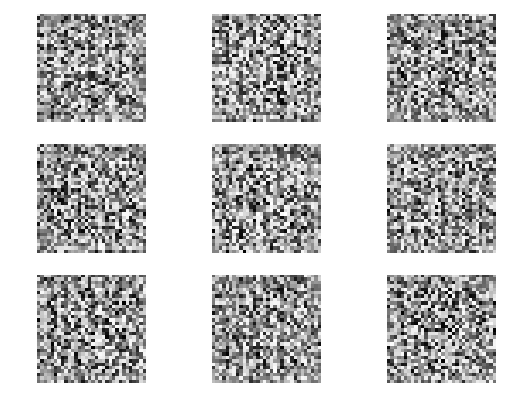
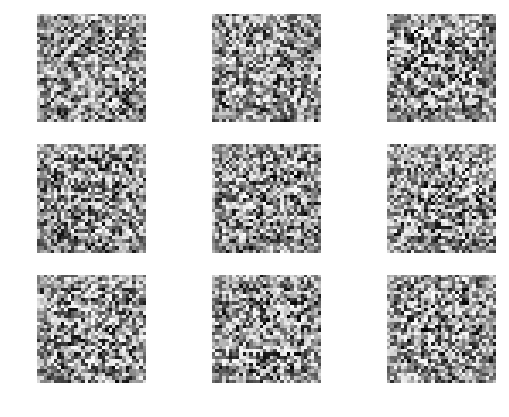
.

diff --git a/projects/devanagari/DCGAN.py b/projects/devanagari/DCGAN.py
@@ -24,8 +24,8 @@ keep_prob_placeholder = tf.placeholder(dtype=tf.float32, shape=())
 
 
 def sample_Z(m, n):
-    # return np.random.uniform((size=m,n))
-    return np.random.normal(size=(m, n))
+    return np.random.uniform(size=(m,n))
+    # return np.random.normal(size=(m, n))
 
 
 def generator(Z, keep_prob):
@@ -37,6 +37,7 @@ def generator(Z, keep_prob):
              weights_regularizer=slim.l2_regularizer(.05)):
 
              net = slim.fully_connected(Z, 7*7*128, activation_fn=None, scope='fc1')
+             net = slim.dropout(net, keep_prob=keep_prob)
              net = slim.batch_norm(net)
              net = tf.nn.leaky_relu(net)
 
@@ -51,42 +52,6 @@ def generator(Z, keep_prob):
              print(net.shape)
 
              net = tf.nn.tanh(net)
-
-            # print('generator shapes')
-            # net = slim.fully_connected(Z, 256, activation_fn=None, scope='fc1')
-            # net = slim.dropout(net, keep_prob = keep_prob, scope='dropout1')
-            # net = slim.batch_norm(net)
-            # net = tf.nn.leaky_relu(net)
-            #
-            # net = slim.fully_connected(Z, 2*2*256, activation_fn=None, scope='fc2')
-            # net = slim.dropout(net, keep_prob = keep_prob, scope='dropout2')
-            #
-            # net = tf.reshape(net, (-1, 2, 2, 256))
-            # net = slim.batch_norm(net)
-            # net = tf.nn.leaky_relu(net)
-            # # shape = 2 x 2 x 256
-            # print(net.shape)
-            #
-            # net = slim.conv2d_transpose(net, 64, [2,2], stride=2, scope='convT1')
-            # net = slim.batch_norm(net)
-            # net = tf.nn.leaky_relu(net)
-            # # shape = 7 x 7 x 64
-            # print(net.shape)
-            #
-            # net = slim.conv2d_transpose(net, 16, [2,2], stride=2, scope='convT2')
-            # net = slim.batch_norm(net)
-            # net = tf.nn.leaky_relu(net)
-            # # shape = 15 x 15 x 16
-            # print(net.shape)
-            #
-            # net = slim.conv2d_transpose(net, 1, [2,2], stride=4, scope='convT3')
-            # net = slim.batch_norm(net)
-            # net = tf.nn.leaky_relu(net)
-            # # shape = 32 x 32 x 1
-            # print(net.shape)
-
-            # net = tf.nn.tanh(net)
-            # tf.summary.image('output of gen', net, 10)
 
     return net
 
@@ -112,14 +77,14 @@ def discriminator(X):
 
                 net = slim.conv2d(net, 64, [5,5], scope='conv1')
                 print(net.shape)
-                # net = slim.batch_norm(net)
+                net = slim.batch_norm(net)
                 net = tf.nn.leaky_relu(net)
                 net = slim.avg_pool2d(net, [2,2], stride=1, scope='pool1')
                 print(net.shape)
 
                 net = slim.conv2d(net, 128, [5,5], scope='conv2')
                 print(net.shape)
-                # net = slim.batch_norm(net)
+                net = slim.batch_norm(net)
                 net = tf.nn.leaky_relu(net)
                 net = slim.avg_pool2d(net, [2,2], stride=1, scope='pool2')
                 print(net.shape)
@@ -154,7 +119,7 @@ def train(continue_training=False):
 
     t0 = time.time()
 
-    generated = generator(Z, 0.5)
+    generated = generator(Z, keep_prob_placeholder)
     d_logit_real = discriminator(X)
     d_logit_fake = discriminator(generated)
 
@@ -194,7 +159,7 @@ def train(continue_training=False):
 
 
 
-    D_train_step = tf.train.AdamOptimizer(0.0001).minimize(D_loss, var_list=d_vars)
+    D_train_step = tf.train.AdamOptimizer(0.001).minimize(D_loss, var_list=d_vars)
     G_train_step = tf.train.AdamOptimizer(0.001).minimize(G_loss, var_list=g_vars)
 
 
@@ -232,7 +197,7 @@ def train(continue_training=False):
 
             #plot samples
             if it % 100 == 0:
-                samples = sess.run(generated, feed_dict={Z: seeds})
+                samples = sess.run(generated, feed_dict={Z: seeds, keep_prob_placeholder:1.0})
                 fig = plot_samples(samples)
                 fig.savefig('out/{}.png'.format(it), bbox_inches='tight')
 
@@ -250,7 +215,7 @@ def train(continue_training=False):
                 _, G_loss_curr, G_summary = sess.run([G_train_step, G_loss, summary_op],
                     feed_dict={Z: sample_Z(BATCH_SIZE, Z_DIM), X: batch_x, keep_prob_placeholder: .5})
 
-            if it % 2 == 0:
+            if it % 1 == 0:
                 _, D_loss_curr, D_summary = sess.run([D_train_step, D_loss, summary_op],
                     feed_dict={Z: sample_Z(BATCH_SIZE, Z_DIM), X: batch_x, keep_prob_placeholder: .5})
 
@@ -268,7 +233,7 @@ def train(continue_training=False):
 
 def gen_images(num):
 
-    generated = generator(Z)
+    generated = generator(Z, keep_prob_placeholder)
 
     with tf.Session() as sess:
         saver=tf.train.Saver()
@@ -286,4 +251,4 @@ def gen_images(num):
 
 
 # gen_images(50)
-train(continue_training=True)
+train(continue_training=False)
